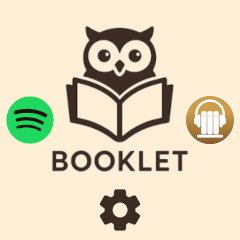
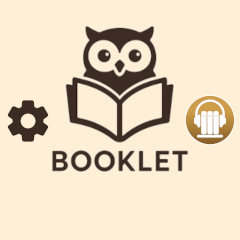
Moved away from Spotify support

Changed region(s): [[0.0, 0.3792, 0.2333, 0.6125], [0.4083, 0.7875, 0.5833, 0.9625]]

diff --git a/src/pages/__init__.py b/src/pages/__init__.py
@@ -7,15 +7,15 @@ from src.pages.LandingPage import LandingPage
 from src.pages.ListPage import ListPage
 from src.pages.AudiobookShelfLocalPage import AudiobookShelfLocalPage
 from src.pages.AudiobookShelfDownloadPage import AudiobookShelfDownloadPage
-from src.pages.SpotifyPlaylistPage import SpotifyPlaylistPage
-from src.pages.SpotifyPlayerPage import SpotifyPlayerPage
+# from old_code.SpotifyPlaylistPage import SpotifyPlaylistPage
+# from old_code.SpotifyPlayerPage import SpotifyPlayerPage
 from src.pages.SettingsPage import SettingsPage
 from src.pages.AudiobookShelfLandingPage import AudiobookShelfLandingPage
 
 pages = {
     "landing": LandingPage(),
 
-    "spotify playlist": SpotifyPlaylistPage(),
+    # "spotify playlist": SpotifyPlaylistPage(),
 
     "audiobookshelf landing": AudiobookShelfLandingPage(),
     "audiobookshelf local": AudiobookShelfLocalPage(),
@@ -23,6 +23,5 @@ pages = {
 
     "settings": SettingsPage(),
 
-    "spotify player": SpotifyPlayerPage(),
+    # "spotify player": SpotifyPlayerPage(),
 }
-

diff --git a/src/players/AudioPlayer.py b/src/players/AudioPlayer.py
@@ -1,8 +1,13 @@
 from abc import ABC, abstractmethod
 import subprocess
 
+
 class AudioPlayer(ABC):
-    volume = .5
+    """ An audio player. Not necissary since we removed Spotify support, but it might be useful in
+        the future.
+    """
+
+    volume = 0.5
 
     def __init__(self):
         pass
@@ -28,15 +33,15 @@ class AudioPlayer(ABC):
         pass
 
     def set_volume(self, to):
-        subprocess.run(f"amixer sset Master {to*100}%".split(' '), check=True)
+        subprocess.run(f"amixer sset Master {to*100}%".split(" "), check=True)
 
     def volume_up(self):
-        AudioPlayer.volume += .1
+        AudioPlayer.volume += 0.1
         self.set_volume(AudioPlayer.volume)
 
     def volume_down(self):
-        AudioPlayer.volume -= .1
+        AudioPlayer.volume -= 0.1
         self.set_volume(AudioPlayer.volume)
 
     def play_pause(self):
-        subprocess.run(f"mpc toggle".split(' '), check=True)
+        subprocess.run(f"mpc toggle".split(" "), check=True)

diff --git a/src/pages/ListPage.py b/src/pages/ListPage.py
@@ -37,9 +37,15 @@ class ListPage(Page):
         for i, item in enumerate(self.items):
             y = self._item_y(i)
             if i == self.selected_index:
-                # TODO: this needs work, it's close enough for now
+                text_bbox = self.draw.textbbox((2, y), item, font=THEME['font'])
+                padding = self.vspacing // 2
                 self.draw.rounded_rectangle(
-                    (0, y+(self.vspacing//2), self.width, y + self._text_height + (self.vspacing*2)),
+                    (
+                        0,
+                        text_bbox[1] - padding,
+                        self.width - 1,
+                        text_bbox[3] + padding,
+                    ),
                     fill=THEME["text_color"],
                     radius=THEME['radius']
                 )

diff --git a/src/pages/SettingsPage.py b/src/pages/SettingsPage.py
@@ -4,13 +4,12 @@ from src.pages.ListPage import ListPage
 class SettingsPage(ListPage):
     def __init__(self):
         super().__init__(
-            items=['Brightness', 'Volume'],
+            items=['Brightness', 'Volume', 'Bluetooth'],
             scrollable=False,
             title="Settings",
             right_pressed='landing'
         )
 
-    def up_pressed(self):
-        if self.selected_index == 0:
-            return 'landing'
-        return super().up_pressed()
+    def item_selected(self, item):
+        print(f"Selected item: {item}")
+        # return item

diff --git a/src/screens/SimulatedScreen.py b/src/screens/SimulatedScreen.py
@@ -25,6 +25,15 @@ class SimulatedScreen(BaseScreen):
         pygame.event.set_allowed([pygame.QUIT, pygame.KEYDOWN, pygame.KEYUP])
         self.rescale = rescale
 
+        # Print an explanation of the debug screen controls
+        print('''
+        Debug screen controls:
+        Arrow keys: simulate up/down/left/right button presses
+        Enter: simulate center button press
+        1, 2, 3: simulate button 1, 2, 3 presses
+        Escape: exit the program
+        ''')
+
     def close(self):
         pygame.quit()
 

diff --git a/src/pages/AudiobookShelfDownloadPage.py b/src/pages/AudiobookShelfDownloadPage.py
@@ -5,11 +5,9 @@ class AudiobookShelfDownloadPage(ListPage):
         super().__init__(
             items=self.fetch_books(),
             scrollable=True,
-            title="Select Book to Download"
+            title="Select Book to Download",
+            left_pressed='audiobookshelf landing'
         )
 
     def fetch_books(self):
         return ['test', 'books', 'hello', 'world']
-
-    def left_pressed(self):
-        return 'audiobookshelf landing'

diff --git a/src/pages/AudiobookShelfLandingPage.py b/src/pages/AudiobookShelfLandingPage.py
@@ -6,12 +6,9 @@ class AudiobookShelfLandingPage(ListPage):
         super().__init__(
             items={'Play local book': 'audiobookshelf local', 'Download book': 'audiobookshelf download'},
             scrollable=False,
-            title="AudiobookShelf"
+            title="AudiobookShelf",
+            left_pressed='landing'
         )
-
-    def left_pressed(self):
-        return 'landing'
 
     def item_selected(self, item):
         return item
-

diff --git a/src/pages/LandingPage.py b/src/pages/LandingPage.py
@@ -11,11 +11,8 @@ class LandingPage(StaticPage):
         self.draw.text((10, 10), "Hello World", fill=THEME["text_color"])
         return True
 
-    def down_pressed(self):
-        return 'settings'
-
     def left_pressed(self):
-        return 'spotify playlist'
+        return 'settings'
 
     def right_pressed(self):
         return 'audiobookshelf landing'

diff --git a/src/players/AudiobookShelfPlayer.py b/src/players/AudiobookShelfPlayer.py
@@ -2,4 +2,17 @@ from src.players.AudioPlayer import AudioPlayer
 
 
 class AudiobookShelfPlayer(AudioPlayer):
-    pass
+    def play(self, path):
+        pass
+
+    def pause(self):
+        pass
+
+    def stop(self):
+        pass
+
+    def next(self):
+        pass
+
+    def prev(self):
+        pass

diff --git a/old_code/SpotifyPlayerPage.py b/old_code/SpotifyPlayerPage.py
@@ -1,8 +1,7 @@
 from src.pages.PlayerPage import PlayerPage
-from src.players.SpotifyPlayer import SpotifyPlayer
+from old_code.SpotifyPlayer import SpotifyPlayer
 
 
 class SpotifyPlayerPage(PlayerPage):
     id = 'spotify player'
     player_cls = SpotifyPlayer
-

diff --git a/old_code/SpotifyPlaylistPage.py b/old_code/SpotifyPlaylistPage.py
@@ -1,5 +1,5 @@
 from src.pages.ListPage import ListPage
-from src.apis.SpotifyApiManager import spotify_api_manager
+from old_code.SpotifyApiManager import spotify_api_manager
 
 class SpotifyPlaylistPage(ListPage):
     def __init__(self):
